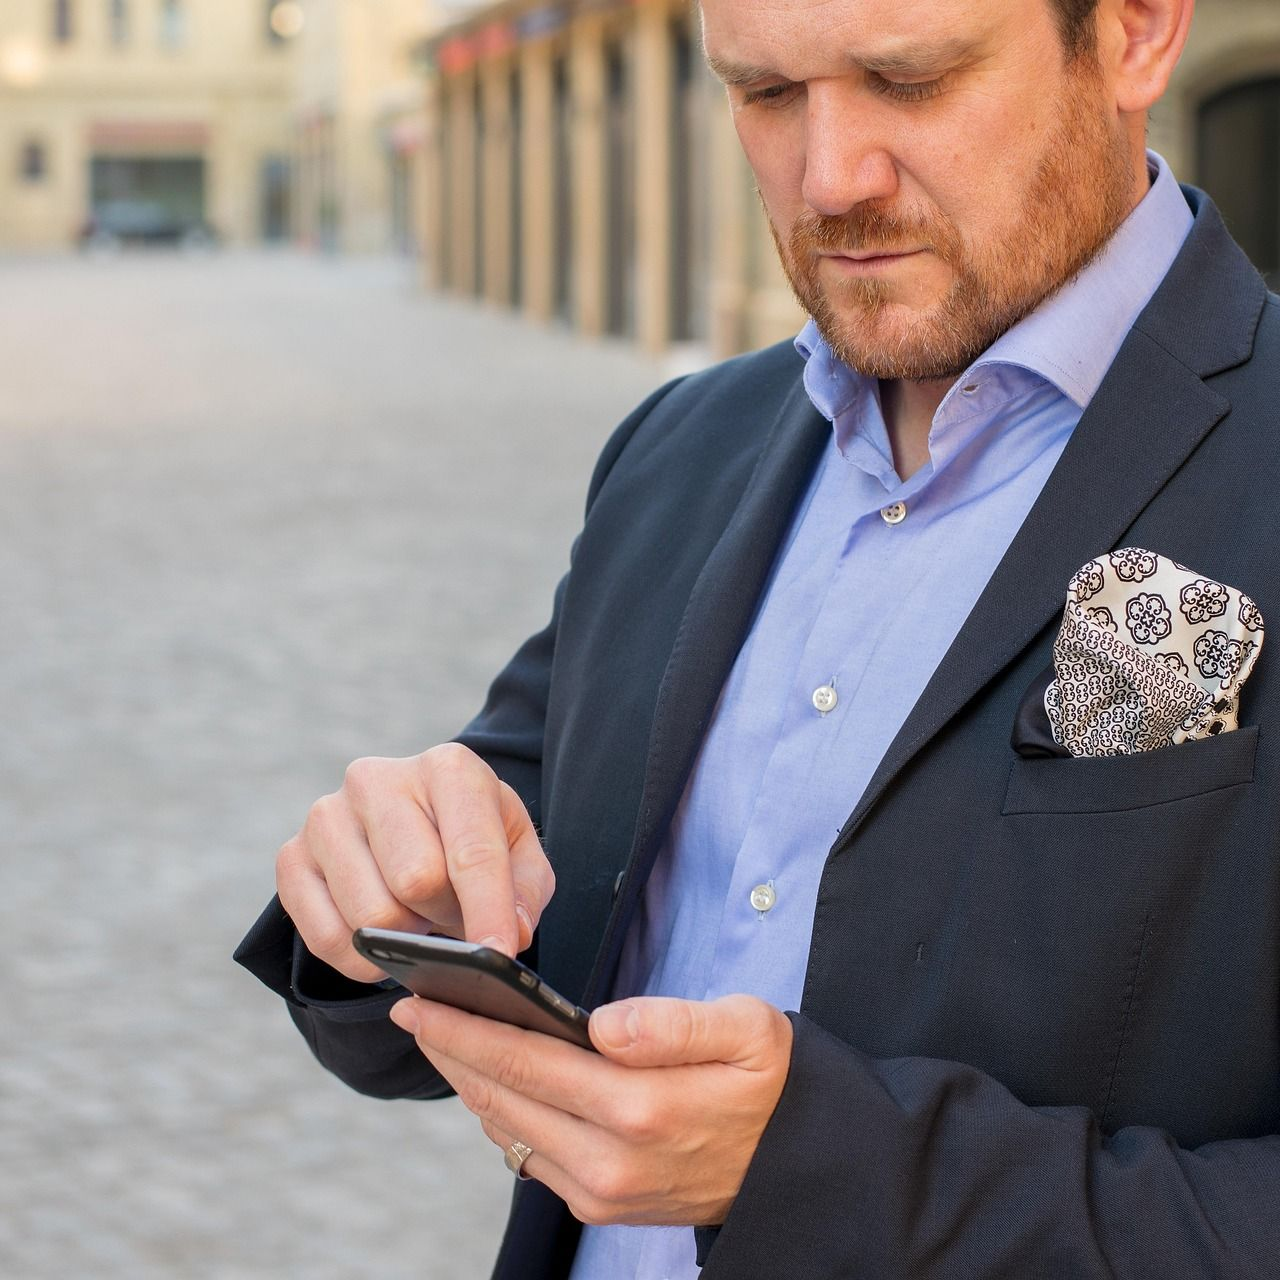
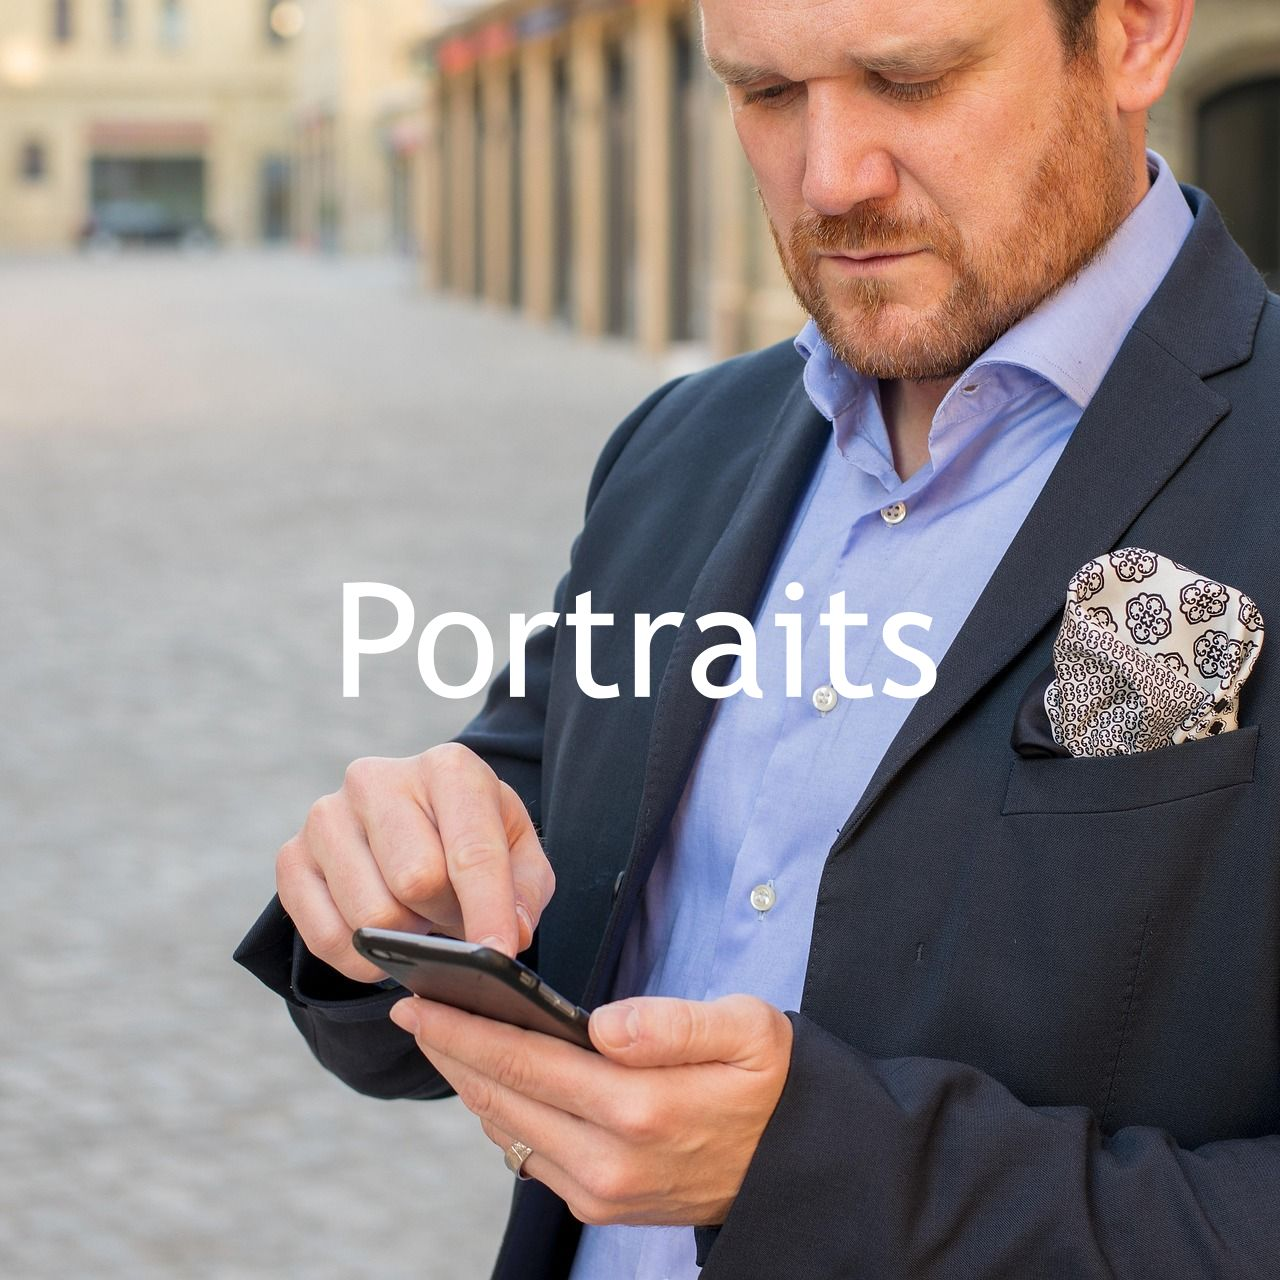
new file:   README.md 	new file:   contact.html 	new file:   desktop.ini 	modified:   footer.png 	modified:   index.html 	modified:   maltese-1123016_1920.jpg 	new file:   our-story.html 	modified:   phone-4060860_1920.jpg 	modified:   skyscraper-9226515_1920.jpg 	modified:   style.css 	modified:   
added labels to images
added footer
added links to other pages with navbars

Changed region(s): [[0.25, 0.4375, 0.75, 0.5625]]

diff --git a/index.html b/index.html
@@ -5,31 +5,40 @@
             <link rel="stylesheet" href="style.css" />
         </head>
         <body>
-                <section>
-                    <nav>
-                        <img src="instagram-1349676_1280.webp" height="45px" width="45px">
+            <section>
+                <nav>
+                    <img src="instagram-1349676_1280.webp" height="45px" width="45px">
+                    <a href="index.html">
                         Photography
-                        <p id="story">
-                            Our Story
-                        </p>
-                        <p id="contact">
-                            CONTACT & RATES
-                        </p>
-                    </nav>
-                </section>
-                <section>
-                    <p class="gallery" id="gallery">
+                    </a>
+                    <div id="story">
+                            <a href="our-story.html">
+                                Our Story
+                            </a>
+                    </div>
+                    <div id="contact">
+                        <a href="contact.html">
+                                CONTACT & RATES
+                        </a>
+                    </div>
+                </nav>
+            </section>
+            <section>
+                <p class="gallery" id="gallery">
                         <img src="phone-4060860_1920.jpg" height="520px" width="520px">
                         <img src="maltese-1123016_1920.jpg" height="520px" width="520px">
                         <img src="trail-5726987_1920.jpg" height="520px" width="520px">
                         <img src="skyscraper-9226515_1920.jpg" height="520px" width="520px">
-                    </p>
-                </section>
+                </p>
+            </section>
                 <!--<section>
                     <p class="loremipsum">
                         Lorem ipsum dolor sit amet, consectetur adipiscing elit, sed do eiusmod tempor incididunt ut labore et dolore magna aliqua. Ut enim ad minim veniam, quis nostrud exercitation ullamco laboris nisi ut aliquip ex ea commodo consequat. Duis aute irure dolor in reprehenderit in voluptate velit esse cillum dolore eu fugiat nulla pariatur. Excepteur sint occaecat cupidatat non proident, sunt in culpa qui officia deserunt mollit anim id est laborum.
                     </p>
                 </section>-->
+            <footer>
+                <img src="footer.png">
+            </footer>
         </body>
     </main>
 </html>

diff --git a/style.css b/style.css
@@ -3,10 +3,18 @@ body{
     color:#1A0800;
     font-family:"Trebuchet MS";
 }
+/* 
+a{
+    color:#1A0800;
+    text-decoration:none;
+    transition:all ease 0.2s;
+} */
+
 
 nav{
     background-color:#DCD3CE;
     display:flex;
+    flex-direction:row;
     gap:10px;
     padding:10px;
     padding-left:40px;
@@ -25,8 +33,9 @@ p.gallery{
     justify-items:center;
     align-items:center;
     grid-template-columns: 1fr 1fr;
-    padding:140px;
-    gap:80px;
+    padding-top:40px;
+    margin:100px;
+    gap:100px;
 }
 
 /* p.gallery:hover{
@@ -40,7 +49,7 @@ p.loremipsum{
 #gallery img{
     width:520px;
     height:520px;
-    filter:brightness(80%);
+    filter:brightness(85%);
     transition: all ease 0.2s;
 }
 
@@ -55,5 +64,16 @@ p.loremipsum{
     color:#FAF5F5;
     padding:15px;
     border-radius:10px;
-    justify-self:end;
+    float:right;
+}
+
+#story{
+    float:right;
+}
+
+footer img{
+    object-fit:fill;
+    bottom:0;
+    left:0;
+    right:0;
 }

diff --git a/contact.html b/contact.html
@@ -1,0 +1,26 @@
+<!DOCTYPE html>
+<html lang="en-ca">
+    <main>
+         <head>
+            <link rel="stylesheet" href="style.css" />
+        </head>
+        <body>
+            <nav>
+                <img src="instagram-1349676_1280.webp" height="45px" width="45px">
+                <a href="index.html">
+                    Photography
+                </a>
+                <div id="story">
+                        <a href="our-story.html">
+                            Our Story
+                        </a>
+                </div>
+                <div id="contact">
+                    <a href="contact.html">
+                            CONTACT & RATES
+                    </a>
+                </div>
+            </nav>
+        </body>
+    </main>
+</html>

diff --git a/our-story.html b/our-story.html
@@ -1,0 +1,26 @@
+<!DOCTYPE html>
+<html lang="en-ca">
+    <main>
+         <head>
+            <link rel="stylesheet" href="style.css" />
+        </head>
+        <body>
+            <nav>
+                <img src="instagram-1349676_1280.webp" height="45px" width="45px">
+                <a href="index.html">
+                    Photography
+                </a>
+                <div id="story">
+                        <a href="our-story.html">
+                            Our Story
+                        </a>
+                </div>
+                <div id="contact">
+                    <a href="contact.html">
+                            CONTACT & RATES
+                    </a>
+                </div>
+            </nav>
+        </body>
+    </main>
+</html>

diff --git a/README.md b/README.md
@@ -1,0 +1,12 @@
+Eric Penner
+041194774 
+My client is a freelance photographer who takes jobs taking pictures of people, pets, and events/locations for commemoration or staging.
+The site serves as an online portfolio to attract potential clients.
+I did not make any major design changes from Assignment 1, as I felt that simplicity was still the best policy.
+I did not use AI at any point in the process of creating this website.
+IMAGE SOURCES:
+Camera Logo https://pixabay.com/illustrations/instagram-logo-black-digital-1349676/ by Rifkie Pratama
+Landscapes Image https://pixabay.com/photos/trail-trees-forest-path-woods-5726987/ by Sergio Cerrato
+Portraits Image https://pixabay.com/photos/phone-business-person-lifestyle-4060860/ by Thorsten Frenzel
+Architecture Image https://pixabay.com/photos/skyscraper-architecture-city-facade-9226515/ by Pana68
+Pets Image https://pixabay.com/photos/maltese-dog-puppy-small-dog-1123016/ by Pexibear
